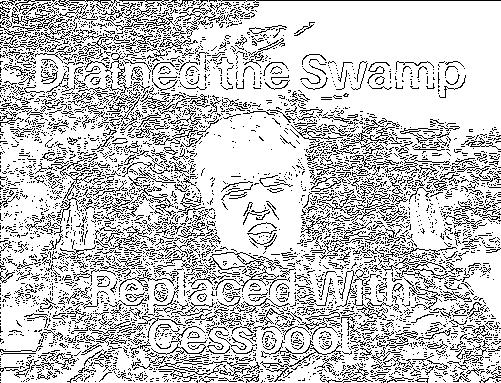
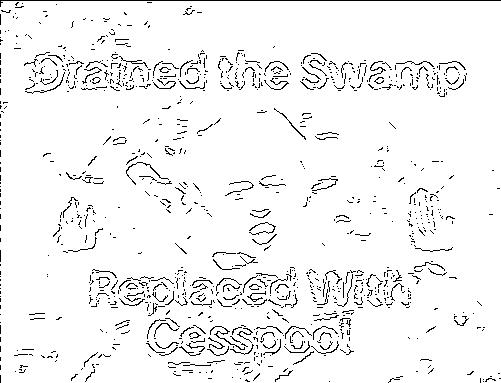
fixt smooth with changable margin

Changed region(s): [[0.0, 0.0, 1.0, 1.0], [0.5988, 0.0574, 0.6287, 0.0862]]

diff --git a/src/img_handler.py b/src/img_handler.py
@@ -90,26 +90,27 @@ def changeImageToGray(input, output):
 def smoothingAvg2(grayMatrix,margin):
     width = grayMatrix.shape[1]
     height = grayMatrix.shape[0]
-    biggerMatrix = utils.saveToBiggerMatrix(grayMatrix,1)
+    biggerMatrix = utils.saveToBiggerMatrix(grayMatrix,margin)
     # print(biggerMatrix)
-    sum_Y_Matrix = np.empty((height,width+2))
-    for y in range(1,biggerMatrix.shape[0]-1):
-        sum_Y_Matrix[y-1,:] = biggerMatrix[y-1,:] + biggerMatrix[y,:] + biggerMatrix[y+1,:]
-    # print(sum_Y_Matrix)
-    sumMatrix = np.empty(grayMatrix.shape)
-    for x in range(1,biggerMatrix.shape[1]-1):
-        sumMatrix[:,x-1] = sum_Y_Matrix[:,x-1] + sum_Y_Matrix[:,x+1] + sum_Y_Matrix[:,x]
-    # print(sumMatrix)
+    sum_Y_Matrix = np.zeros((height, width + margin*2))
+    for y in range(margin,biggerMatrix.shape[0]-margin):
+        for i in range(y - margin, y + margin + 1):
+            sum_Y_Matrix[y-margin,:] += biggerMatrix[i,:]
+    sumMatrix = np.zeros(grayMatrix.shape)
+    for x in range(margin,biggerMatrix.shape[1]-margin):
+        for i in range(x - margin, x + margin + 1):
+            # print(sumMatrix[:,x-margin])
+            # print(biggerMatrix[:,i])
+            sumMatrix[:,x-margin] += sum_Y_Matrix[:,i]
     rs = np.empty(grayMatrix.shape)
-    rs[1:height-1,1:width-1] = np.round(sumMatrix[1:height-1,1:width-1]/9)
-    rs[0,1:width-1] = np.round(sumMatrix[0,1:width-1] / 6)
-    rs[height-1, 1:width - 1] = np.round(sumMatrix[height-1, 1:width - 1] / 6)
-    rs[1:height-1, 0] = np.round(sumMatrix[1:height-1, 0] / 6)
-    rs[1:height - 1, width-1] = np.round(sumMatrix[1:height - 1, width-1] / 6)
-    rs[0][0] = np.round(sumMatrix[0][0] / 4)
-    rs[0][width-1] = np.round(sumMatrix[0][width-1] / 4)
-    rs[height-1][0] = np.round(sumMatrix[height-1][0] / 4)
-    rs[height-1][width-1] = np.round(sumMatrix[height-1][width-1] / 4)
+    for y in range(height):
+        for x in range(width):
+            top = y - margin if y >= margin else 0
+            bottom = y + margin if y + margin < height else height - 1
+            left = x - margin if x >= margin else 0
+            right = x + margin if x + margin < width else width  - 1
+            numberOfNearPixels = (bottom - top + 1) * (right - left + 1)
+            rs[y][x] = np.round(sumMatrix[y][x]/numberOfNearPixels)
     return rs
 
 

diff --git a/src/main.py b/src/main.py
@@ -15,7 +15,7 @@ def realMain():
     initiateMask()
     img = readImage(ip)
     gray_matrix = savePixelGrayValueToMatrix(img)
-    # gray_matrix = smoothingAvg2(gray_matrix, 1)
+    gray_matrix = smoothingAvg2(gray_matrix, 2)
     biggerMatrix = saveToBiggerMatrix(gray_matrix, 1)
     horizontalGradientMatrix = getGradientMatrix(biggerMatrix, 1)
     verticalGradientMatrix = getGradientMatrix(biggerMatrix, 2)
@@ -32,8 +32,8 @@ def realMain():
     print("--- %s seconds ---" % (time.clock() - start))
 
 def testMain():
-    # test.testSmoothAvg()
-    print(test.twiceReturn())
+    test.testSmoothAvg()
+    # print(test.twiceReturn())
 
 if __name__ == '__main__':
     realMain()

diff --git a/src/test.py b/src/test.py
@@ -4,10 +4,10 @@ from src import img_handler
 def testSmoothAvg():
     t = np.arange(100).reshape((10,10))
     print(t)
-    print("\n\n\n")
-    print(img_handler.smoothingAvg2(t,1))
-    print("\n\n\n")
-    print(img_handler.smoothingAvg(t,1))
+    # print("\n\n\n")
+    # print(img_handler.smoothingAvg2(t,1))
+    # print("\n\n\n")
+    print(img_handler.smoothingAvg2(t,2))
 
 def twiceReturn():
     if(5>0):
